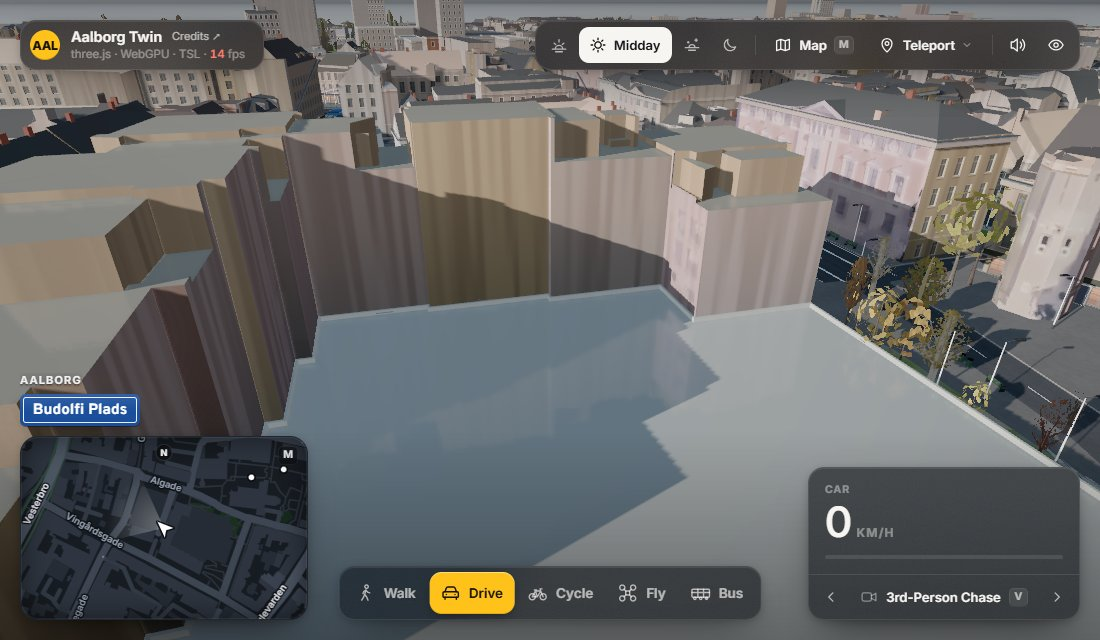
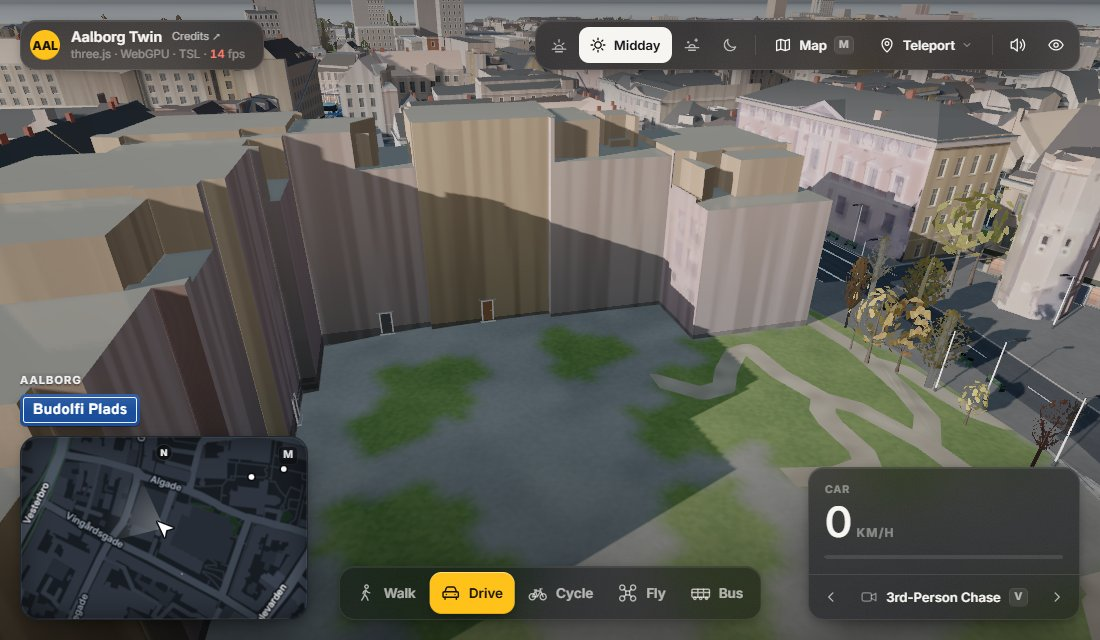
Budolfi Plads is a square again: below-ground footprints by height and size
The previous commit left a slab over the square: in the engine a building stands
on the terrain, so the footprint read 2 m high, not the file's 0.6 m. A refused
LoD2 record now means below ground when the footprint is under 2.5 m high and over
100 m2; low sheds, under 40 m2, stay. Replaces the wrong image of the square.

diff --git a/js/building-geometry.js b/js/building-geometry.js
@@ -237,7 +237,8 @@ function groundLow(b, terrain) {
   return low;
 }
 
-const LOW_EAVE = 1.0; // m over the ground: a building reading this low with a refused record is below ground (a low shed is not: it stays an extrusion)
+const LOW_EAVE = 2.5; // m over the ground (the engine's ground: the terrain under the building, not the file's)
+const LOW_MIN_AREA = 100; // m2: a refused record on a footprint this large and that low is below ground; real sheds in the data are under 40 m2
 const DECK_BELOW_COVER = 0.97; // a roof covering less of the footprint than this has gaps, wherever they are
 const DECK_UNDER_ROOF = 0.3; // m: the closing deck lies this far under the lowest of the roof and the wall tops
 
@@ -248,10 +249,10 @@ function addBuilding(acc, b, opts = {}) {
   if (!outerPts) return null;
   const holePts = (b.holes || []).map((h) => cleanRing(h, false)).filter(Boolean);
   const ground = b.ground;
-  // a record whose roof does not cover the footprint is refused (lod2Usable): the building is drawn as an extrusion. Where it also reads barely
-  // over the ground there is nothing standing there: an underground car park under a square (Budolfi Plads). It is not drawn
+  // a record whose roof does not cover the footprint is refused (lod2Usable): the building is drawn as an extrusion. A large footprint that also
+  // reads this low has nothing standing on it: an underground car park under a square (Budolfi Plads). It is not drawn; a low shed stays
   const refused = opts.lod2 && !lod2Usable(opts.lod2, b) ? opts.lod2 : null;
-  if (refused && b.eave - ground < LOW_EAVE) return null;
+  if (refused && b.eave - ground < LOW_EAVE && Math.abs(ringArea(b.ring)) >= LOW_MIN_AREA) return null;
   const eave = Math.max(b.eave, ground + 0.5);
   // The wall stands on the terrain (js/terrain.js, the one ground model): its skirt reaches 0.25 m under the lowest
   // ground along the outline, so a sloping street never shows a gap. Without terrain: the flat plane at y = 0.

diff --git a/docs/lod2.md b/docs/lod2.md
@@ -26,8 +26,9 @@ only: where the shell stands open you see the inside of the far walls culled awa
 `js/building-geometry.js addBuilding`:
 
 - **Refused records.** A record whose roof covers under 60 % of the footprint is not used (33 of 3,040; many fit 4 to 16 m off). The building is
-  drawn as an extrusion with a whole roof. If it also reads under 1 m over the ground it is not drawn (5 buildings): nothing stands there (the footprint
-  under Budolfi Plads, 4 % roofed, 0.6 m high, is most likely the underground car park).
+  drawn as an extrusion with a whole roof. If it is also over 100 m² and under 2.5 m high it is not drawn: nothing stands there (the footprint under
+  Budolfi Plads, 2,716 m², 4 % roofed, 2 m over the terrain, is most likely the underground car park). Height alone cannot tell these from
+  sheds, which are under 40 m².
 - **Unmatched edges.** 1,161 buildings have edges the record has no eave for. Those walls used a generic eave, ending short of the roof or
   standing above it. They now end at the lowest roof over them.
 - **Closing walls.** Above each wall, up to the roof read over it, a wall piece closes any gap the record's own walls leave.
